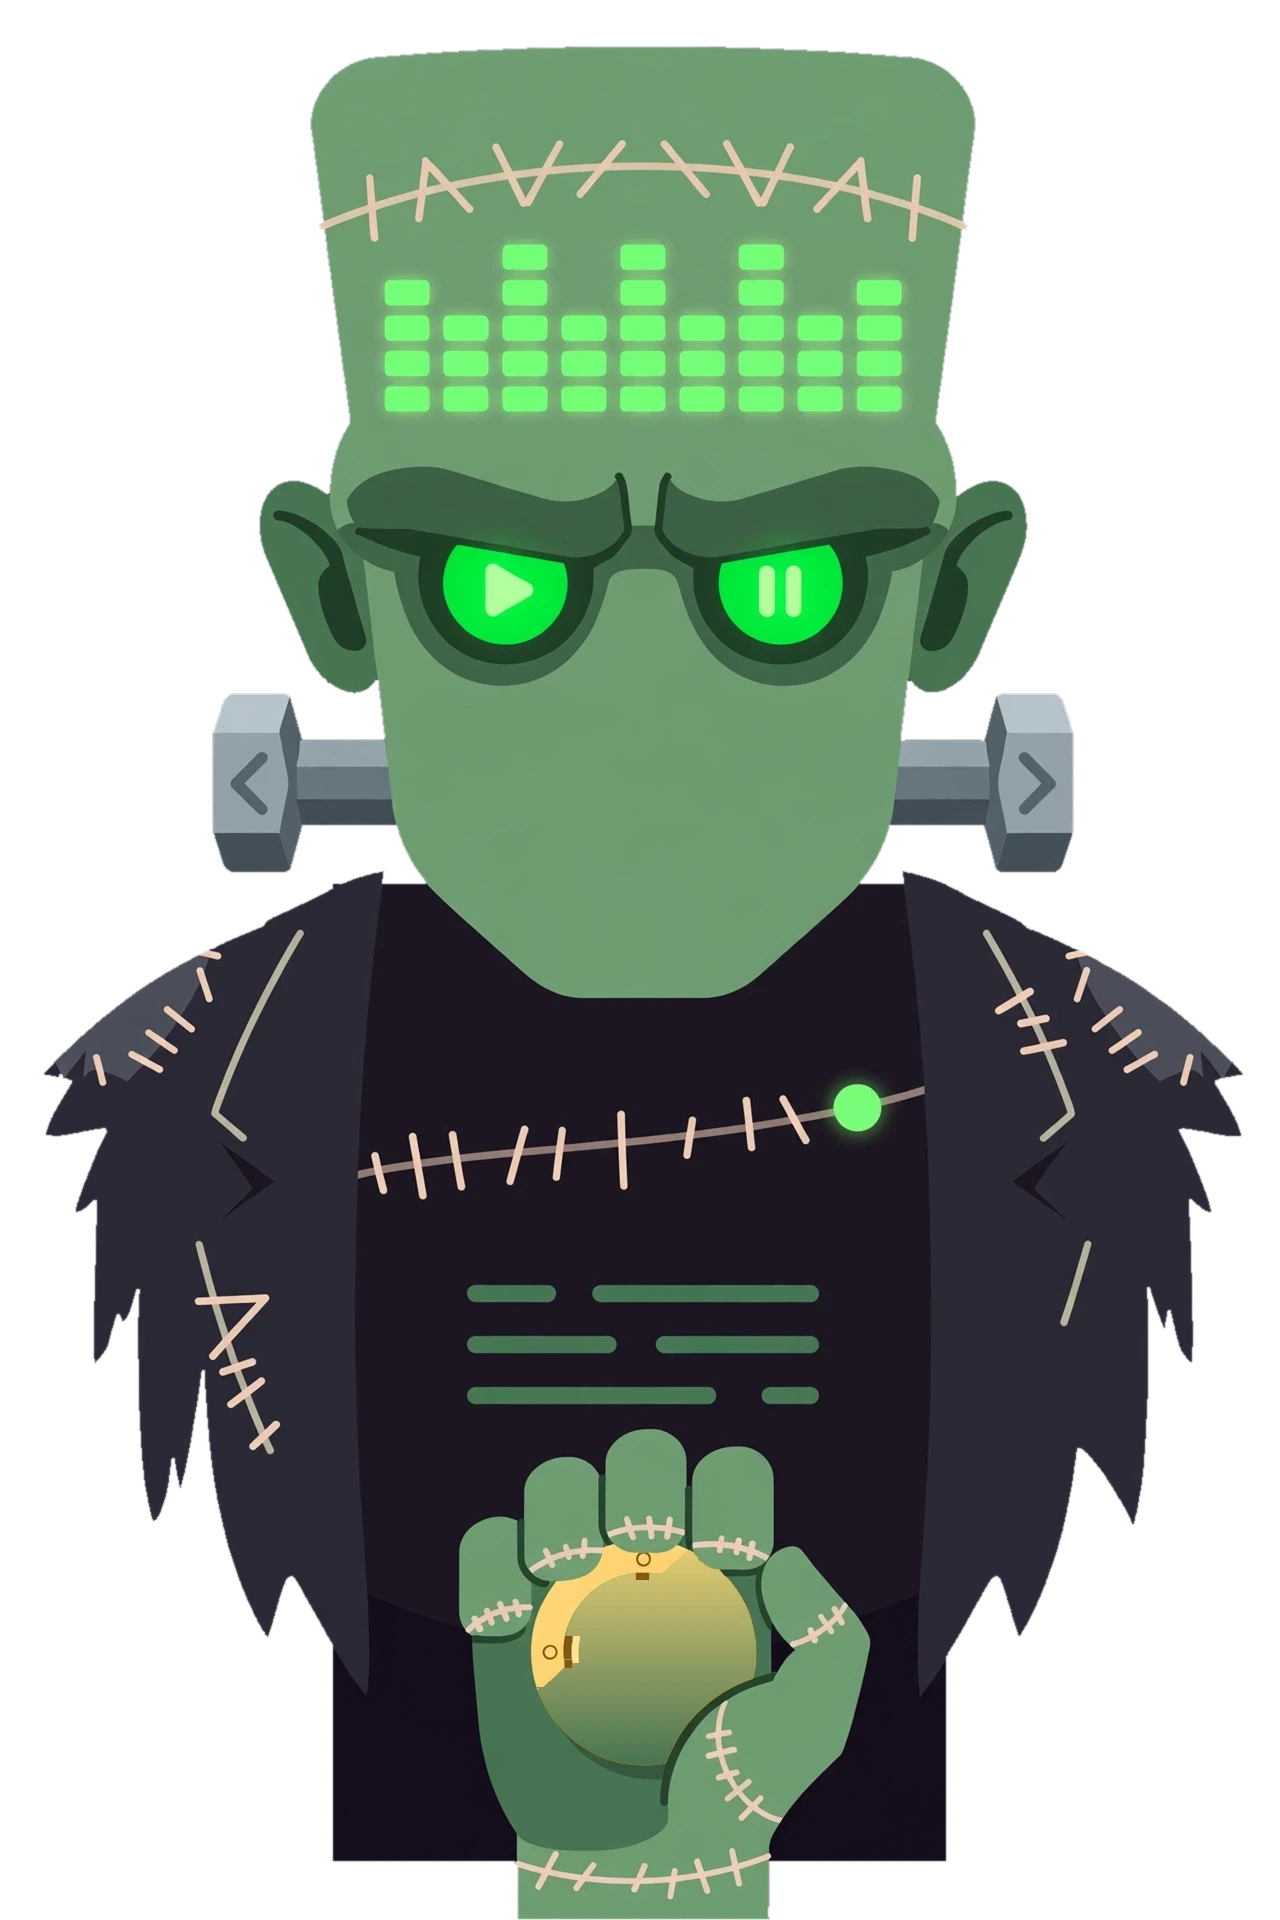
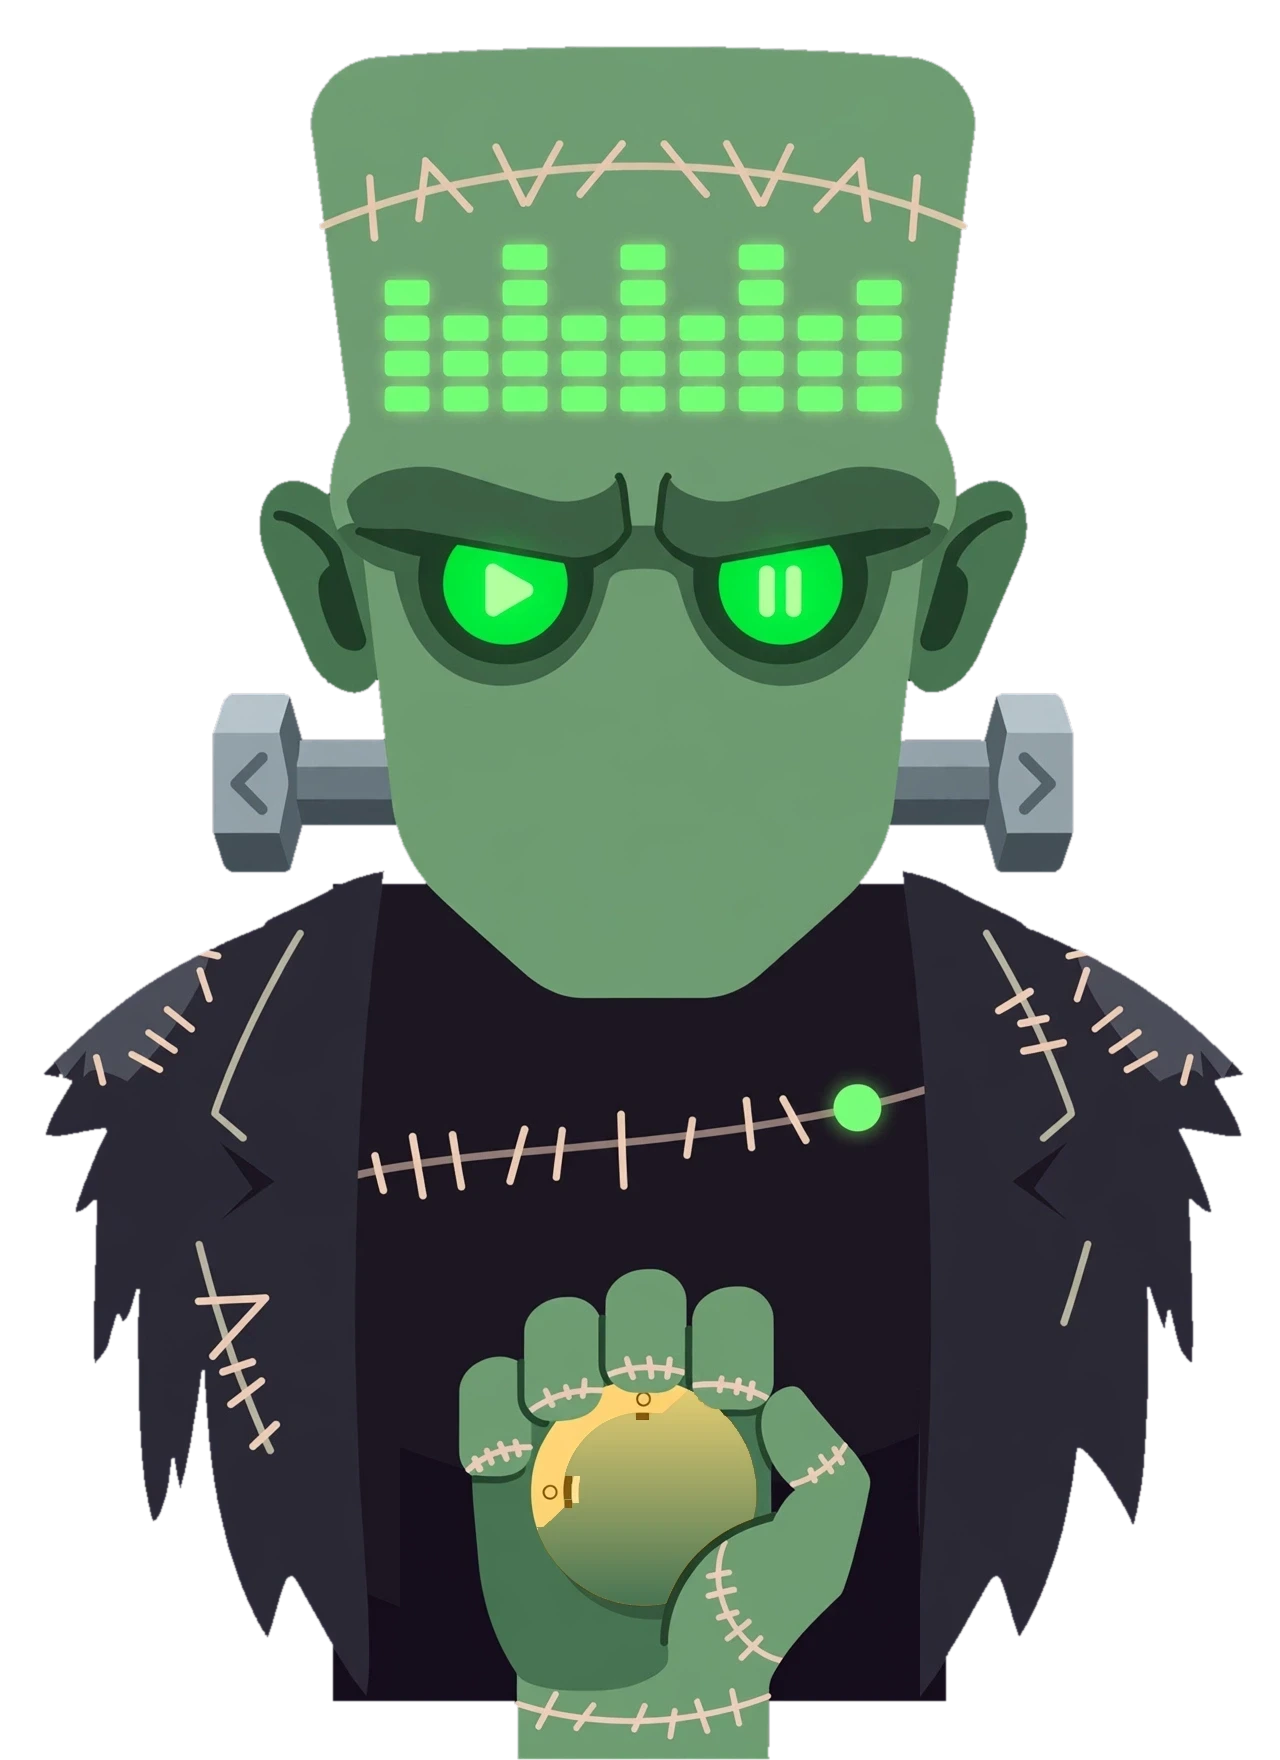
feat(skins): shorten Frankenstein stage and lift hand; crop plate to 1280×1760
- Crop frankenstein-frame.webp from 1280×1920 to 1280×1760; composite rows 1424–1920 to 160px higher with flat jacket join
- Restore art's below-hem band (wrist) at row 1700 to maintain hand visibility above window edge
- Remove .fr-chest-blank class (baked dummy chest label now hidden by crop)
- Rescale all Frankenstein CSS vertical percentages by 1920/1760 to preserve pixel positions after lift
- Update stage to 480×660 (mini 320×440); declare windowSize so mountSkin sizes window on mount
- Adjust watch position to track lifted hand (top 78.84%); update scar SVG viewBox to 1280×1760
- Update spec and audit docs with new dimensions and crop details
- Verified in Chromium at 480×660 with measurement-based validation; Electron window, shape and mini paths not exercised

diff --git a/src/renderer/style.css b/src/renderer/style.css
@@ -821,10 +821,11 @@ input[type="range"]::-moz-range-thumb {
    forehead is the equalizer, whose left eye follows the pointer and whose
    right eye is play/pause, with neck bolts, a stitched scar seek line, a
    gold watch for volume and brass jacket pins for the window tools.
-   Every position below is the reference build's own percentage of its 2:3
-   stage (1280×1920), and this skin's window is 2:3, so each live element
-   lands on its painted counterpart. cqw units keep the UI proportional as
-   the window resizes.
+   Every position below is the reference build's own percentage of its
+   1280×1760 stage (the plate is cropped from the reference's 2:3 art at the
+   chest, with the hand lifted to the new bottom edge), and this skin's window
+   matches that 8:11 stage, so each live element lands on its painted
+   counterpart. cqw units keep the UI proportional as the window resizes.
    ════════════════════════════════════════════════════════════════════ */
 .frankenstein-skin { filter: none; }
 .frankenstein-skin .fr-body {
@@ -852,9 +853,9 @@ input[type="range"]::-moz-range-thumb {
 .frankenstein-skin .fr-eq {
   position: absolute;
   left: 29.7%;
-  top: 12.6%;
+  top: 13.75%;
   width: 41%;
-  height: 9.1%;
+  height: 9.93%;
   background: #709b73;
   border-radius: 3%;
   z-index: 1;
@@ -865,9 +866,9 @@ input[type="range"]::-moz-range-thumb {
 .frankenstein-skin .fr-eye {
   position: absolute;
   left: 34.2%;
-  top: 28.1%;
+  top: 30.65%;
   width: 10.9%;
-  height: 5.7%;
+  height: 6.22%;
   background: radial-gradient(ellipse at 45% 38%, #edf0cf, #c9c99b 75%);
   border: 0.75cqw solid #284b31;
   border-radius: 46% 48% 48% 50%;
@@ -914,9 +915,9 @@ input[type="range"]::-moz-range-thumb {
 .frankenstein-skin .fr-play {
   position: absolute;
   left: 56.2%;
-  top: 28.2%;
+  top: 30.76%;
   width: 9.7%;
-  height: 5.5%;
+  height: 6%;
   padding: 0;
   display: grid;
   place-items: center;
@@ -964,9 +965,9 @@ input[type="range"]::-moz-range-thumb {
 .frankenstein-skin .fr-mouth {
   position: absolute;
   left: 28%;
-  top: 34.8%;
+  top: 37.96%;
   width: 44%;
-  height: 18.2%;
+  height: 19.85%;
   z-index: 6;
 }
 .frankenstein-skin .fr-mask-art {
@@ -1078,9 +1079,9 @@ input[type="range"]::-moz-range-thumb {
 /* ── Neck bolts = prev / next ─────────────────────────────────────────── */
 .frankenstein-skin .fr-bolt {
   position: absolute;
-  top: 36.1%;
+  top: 39.38%;
   width: 7%;
-  height: 9.3%;
+  height: 10.15%;
   padding: 0;
   background: transparent;
   border: none;
@@ -1094,20 +1095,6 @@ input[type="range"]::-moz-range-thumb {
 .frankenstein-skin .fr-bolt:focus-visible {
   box-shadow: 0 0 3cqw #72ff5a66;
   outline: 1px solid #b1ffa2;
-}
-
-/* ── Chest blank = hides the plate's baked placeholder label ──────────── */
-/* Same box the live title readout occupied: the art was drawn with a dummy
-   text block there, and the mouth monitor now carries the track name. */
-.frankenstein-skin .fr-chest-blank {
-  position: absolute;
-  left: 35.7%;
-  top: 65.6%;
-  width: 29%;
-  height: 8%;
-  background: #1c1724;
-  z-index: 3;
-  pointer-events: none;
 }
 
 /* ── Stitched scar = seek ─────────────────────────────────────────────── */
@@ -1148,9 +1135,9 @@ input[type="range"]::-moz-range-thumb {
 .frankenstein-skin .fr-seek {
   position: absolute;
   left: 28%;
-  top: 57%;
+  top: 62.18%;
   width: 44%;
-  height: 5%;
+  height: 5.45%;
   margin: 0;
   opacity: 0;
   pointer-events: none;
@@ -1158,7 +1145,7 @@ input[type="range"]::-moz-range-thumb {
 .frankenstein-skin .fr-times {
   position: absolute;
   left: 28%;
-  top: 62.3%;
+  top: 67.96%;
   width: 44%;
   display: flex;
   justify-content: space-between;
@@ -1174,9 +1161,9 @@ input[type="range"]::-moz-range-thumb {
 .frankenstein-skin .fr-watch {
   position: absolute;
   left: 41.5%;
-  top: 80.6%;
+  top: 78.84%;
   width: 18%;
-  height: 12%;
+  height: 13.09%;
   z-index: 4;
 }
 .frankenstein-skin .fr-dial {
@@ -1302,11 +1289,11 @@ input[type="range"]::-moz-range-thumb {
 /* Minimize takes the left jacket pin and open folder the right one (swapped
    on the maintainer's call, 2026-11-24); close, mini and next skin keep their
    places. */
-.frankenstein-skin .fr-pin-minimize { left: 18%; top: 53%; }
-.frankenstein-skin .fr-pin-close  { left: 16%; top: 67%; }
-.frankenstein-skin .fr-pin-folder { left: 79%; top: 53%; }
-.frankenstein-skin .fr-pin-mini   { left: 77%; top: 65%; }
-.frankenstein-skin .fr-pin-skin   { left: 74%; top: 76%; }
+.frankenstein-skin .fr-pin-minimize { left: 18%; top: 57.82%; }
+.frankenstein-skin .fr-pin-close  { left: 16%; top: 73.09%; }
+.frankenstein-skin .fr-pin-folder { left: 79%; top: 57.82%; }
+.frankenstein-skin .fr-pin-mini   { left: 77%; top: 70.91%; }
+.frankenstein-skin .fr-pin-skin   { left: 74%; top: 82.91%; }
 
 /* ════════════════════════════════════════════════════════════════════════
    SKELETON — WEB PLATE (2026-11-11)

diff --git a/src/renderer/skins/FrankensteinSkin.ts b/src/renderer/skins/FrankensteinSkin.ts
@@ -11,8 +11,11 @@
  * of the list — its rows are the playlist's keyboard path too.
  *
  * Anatomy → control / readout. Every position in style.css is the reference
- * build's own percentage of its 2:3 stage, and this skin's window is 2:3, so
- * each live element lands on its painted counterpart:
+ * build's own percentage of its 1280×1760 stage, and this skin's window is
+ * that same 8:11 shape, so each live element lands on its painted
+ * counterpart. The plate is cut 160px short of the reference's 2:3 art at the
+ * chest, and the hand with the watch is lifted to the new bottom edge, so the
+ * player is shorter than the reference without losing the fist:
  *   Forehead EQ ────── visualizer: 9 × 5 blocks, lit from the bottom
  *   Left eye ───────── readout: the iris follows the pointer, blinks, drifts
  *   Right eye ──────── play / pause (the glow holds while playing)
@@ -33,10 +36,10 @@ import { formatTime as fmt, durationLabel, probeDurations } from '../trackDurati
 import type { Skin } from './Skin'
 import type { Player } from '../player/Player'
 
-/** The reference build's 2:3 stage — this skin's window matches it exactly. */
-const STAGE_SIZE = { width: 480, height: 720, minWidth: 380, minHeight: 560 }
+/** 1280×1760 at 0.375 — the plate's own proportions, cropped at the chest. */
+const STAGE_SIZE = { width: 480, height: 660, minWidth: 380, minHeight: 520 }
 /** Mini keeps the whole figure, as the reference does — just smaller. */
-const MINI_SIZE = { width: 320, height: 480, minWidth: 240, minHeight: 360 }
+const MINI_SIZE = { width: 320, height: 440, minWidth: 240, minHeight: 330 }
 
 /** Forehead equalizer: the reference build's 9 × 5 block grid. */
 const EQ_COLS = 9
@@ -48,7 +51,7 @@ const EQ_BLOCK_H = 22
 /** What the blocks show while paused, column by column. */
 const EQ_IDLE = [4, 3, 5, 3, 5, 3, 5, 3, 4]
 
-/** Stitched scar, in the plate's own 1280×1920 coordinates. */
+/** Stitched scar, in the plate's own 1280×1760 coordinates. */
 const SCAR_PATH = 'M358 1174 C540 1134 751 1139 924 1090'
 
 /** Horizontal pixels for the full 0–100 volume range. One window-width
@@ -127,8 +130,8 @@ function sutureTicks(
  * HTML element placed exactly in it.
  *
  * Drawn in the mask's own 420×260 box, which is the same ratio as its CSS box
- * (44% of a 2:3 window), so preserveAspectRatio="none" costs no distortion
- * and the screen's percentages line up with the grille.
+ * (44% × 19.85% of the 480×660 stage), so preserveAspectRatio="none" costs no
+ * distortion and the screen's percentages line up with the grille.
  */
 function mouthMaskSvg(): string {
   return /* html */ `
@@ -222,6 +225,7 @@ export class FrankensteinSkin implements Skin {
   readonly id = 'frankenstein'
   readonly label = 'Frankenstein'
   readonly shapeImage = framePlate
+  readonly windowSize = { width: 480, height: 660 }
 
   private container: HTMLElement | null = null
   private player: Player | null = null
@@ -334,15 +338,9 @@ export class FrankensteinSkin implements Skin {
         <button class="fr-bolt fr-next" type="button" aria-label="Next track"
                 title="Next track"></button>
 
-        <!-- The plate has a baked dummy label on the chest (placeholder text
-             lines). The live title readout that used to cover it is gone —
-             the mouth monitor carries the track — so this blank plate keeps
-             the baked text off the screen. -->
-        <div class="fr-chest-blank" aria-hidden="true"></div>
-
         <!-- Stitched scar = seek -->
         <div class="fr-scar">
-          <svg class="fr-scar-svg" viewBox="0 0 1280 1920" aria-hidden="true">
+          <svg class="fr-scar-svg" viewBox="0 0 1280 1760" aria-hidden="true">
             <path class="fr-scar-route" d="${SCAR_PATH}"/>
             <path class="fr-scar-progress" d="${SCAR_PATH}" pathLength="1000"/>
             <circle class="fr-scar-thumb" r="15"/>

diff --git a/docs/AGENTS.md b/docs/AGENTS.md
@@ -344,6 +344,7 @@ over the bat. Verified on the running renderer in paused / hover / playing-hover
 - **Generic title bar removed (2026-11-22, maintainer's call):** the shared minimize / maximize / close strip (`#titlebar`, `renderWindowControls()` in `src/renderer/main.ts`) flashed in the window corner whenever a drag lifted the OS shape. Hiding it during drags was tried three ways (hide on drag, a 4px drag threshold plus a delayed reveal, hide two frames before lifting the shape) and the maintainer chose to remove it instead. Maximize is gone with it. Window buttons now live only on each skin (`.kiro/specs/skin-required-controls.md`). The 4px drag threshold in `src/renderer/skinDrag.ts` stays, so a plain click never touches the window.
 - **Dev server on port 5500 (2026-11-22):** `npm run dev` failed with `listen EACCES ::1:5173`. Windows had reserved TCP 5106-5205 (`netsh interface ipv4 show excludedportrange protocol=tcp`), which covers Vite's default. `electron.vite.config.ts` pins `renderer.server.port` to 5500. Reserved ranges can move after a reboot or a WSL/Docker update; change the port if it happens again.
 - **Frankenstein playlist moved into the mouth mask (2026-11-24, commits `0e1b21b`, `0100a68`, `504b6b1`):** the blank mouth is now an MK-style riveted half mask (SVG in `src/renderer/skins/FrankensteinSkin.ts`) whose steel grille frames a phosphor-green playlist monitor (`.fr-mouth-list`). The separate tracks board behind the jacket pin was removed, so the monitor is the only copy of the list and its rows are focusable (`tabindex="0"`). The freed pin became minimize, which closed the last gap in `.kiro/specs/skin-required-controls.md`.
+- **Frankenstein stage shortened, hand lifted (2026-11-24, maintainer: "move up the hand to reduce the height of the player skin"):** the fist with the gold watch sat against the bottom of the 1280×1920 plate, so the player could not get shorter without cutting it. `frankenstein-frame.webp` is now 1280×1760: the bottom 160px are cropped and rows 1424–1920 are composited 160px higher (x 400–920 — flat jacket on every row that lands, so the join measured pixel-identical), and the art's below-hem band (rows 1860–1920, wrist only) is restored at 1700 — the jacket keeps its flat bottom edge 22px above the window and the wrist still runs past it, as in the 2:3 plate, instead of ending flush with the torso. That lift also covers the art's baked dummy chest label, so `.fr-chest-blank` is deleted. The stage is 480×660 (mini 320×440, `windowSize` now declared so `mountSkin` sizes the window on mount); every vertical percentage in the Frankenstein CSS block was rescaled by 1920/1760 to hold its previous pixel position, the watch moved with the hand (top 78.84%), and the scar SVG's viewBox is 1280×1760. Verified in Chromium at 480×660: body 480×660, mask 211.2×131, screen 64.5 tall with five 10.5px rows, watch at 199.2/520.3 on the lifted ball, pins on their old pixels. The Electron window, shape and mini paths were not exercised, and the preview's saved screenshot came back as a pre-resize frame, so this check is measurement-based.
 ## Recent Improvements (2026-11-08)
 
 - **Frankenstein rebuilt on its reference web build (2026-11-23):** the plate, the dial crop and every live position now come from the reference build's own 1280×1920 art and DOM percentages — a forehead 9×5 block equalizer, a left eye whose iris follows the pointer (idle drift after 4.5 s, 8 s blink), the right eye as play/pause, neck bolts, a stitched scar seek drawn on the reference's SVG path (painted while dragging, committed on release, so the buffer no longer restarts per pixel), a gold watch dial with tap/ϟ mute, and five brass jacket pins (folder, close, ☰ Tracks, mini, next skin). The ☰ Tracks board lifts the OS window region while open (`liftShape()` / `restoreShape()` in `src/renderer/windowShape.ts`), because a panel wider than the silhouette would otherwise be clipped by the window shape; `src/renderer/skinDrag.ts` ignores pointerdowns while a dialog is open. `role="img"` on the body became `role="group"` — the old role had hidden every control from assistive tech. The plate already carried a real alpha channel (59.3% coverage, 0 enclosed transparent pockets), so nothing was flood-filled, and the old separated eye/dial layers were deleted. Verified by rendering the skin's own CSS over the plate at 480×720 in Chromium and measuring each control against the reference percentages (all within 0.1%); the Electron window, audio, shape and mini paths were not exercised.

diff --git a/.kiro/specs/skin-required-controls.md b/.kiro/specs/skin-required-controls.md
@@ -81,4 +81,4 @@ T0b decision (2026-11-21): the maintainer asked to remove the generic title bar 
 
 T4 (2026-11-22): used the Boba web build the skin came from as the design reference. The five window tools sit on the skeleton's painted icon row, left to right: skull → mini, half-mask → change skin, coffin → add files, bar → minimize, X → close; the painted speaker beside the volume bar mutes and restores the level. The mini version follows the web build's mini player: the window shrinks to 380×220, the shape is lifted, and the card shows a skull crop, title, play/pause, seek and restore/close. The generic "+ Add files" pill is now hidden on Skeleton as well (R5). `npm run typecheck` and `npm run build` pass; not checked visually in the running app. [MAINTAINER: exercise all five tools, the mini card and its restore/seek, and the shape after entering and leaving mini.]
 
-T3 + T5 (2026-11-23): Frankenstein rebuilt on its reference web build, the same treatment Dracula and Skeleton had. The plate, the dial crop and every live position come from that build: forehead 9×5 block equalizer, a cursor-tracking left eye with idle drift and an 8 s blink, the right eye as play/pause, neck bolts, a stitched scar seek drawn on the reference's SVG path (painted while dragging, committed on release), a gold watch dial with mute, and the five brass jacket pins. Mini is a 320×480 window of the same figure. The ☰ Tracks board lifts the OS window region while open (`liftShape()` / `restoreShape()` in `src/renderer/windowShape.ts`) so the panel is not clipped by the silhouette, and `src/renderer/skinDrag.ts` ignores pointerdowns while a dialog is open. `role="img"` on the body became `role="group"`; the old role had hidden every control from assistive tech. The floating "+ Add files" pill is now hidden on Frankenstein too (T5), so all three skins carry their own controls. Verified by rendering the skin's own CSS over the plate at 480×720 in Chromium and measuring every control against the reference percentages (all within 0.1%); `npm run typecheck` and `npm run build` pass. The Electron window, audio, shape and mini paths were not exercised.
+T3 + T5 (2026-11-23): Frankenstein rebuilt on its reference web build, the same treatment Dracula and Skeleton had. The plate, the dial crop and every live position come from that build: forehead 9×5 block equalizer, a cursor-tracking left eye with idle drift and an 8 s blink, the right eye as play/pause, neck bolts, a stitched scar seek drawn on the reference's SVG path (painted while dragging, committed on release), a gold watch dial with mute, and the five brass jacket pins. Mini is a 320×440 window of the same figure (the plate was cropped to 1280×1760 on 2026-11-24). The ☰ Tracks board lifts the OS window region while open (`liftShape()` / `restoreShape()` in `src/renderer/windowShape.ts`) so the panel is not clipped by the silhouette, and `src/renderer/skinDrag.ts` ignores pointerdowns while a dialog is open. `role="img"` on the body became `role="group"`; the old role had hidden every control from assistive tech. The floating "+ Add files" pill is now hidden on Frankenstein too (T5), so all three skins carry their own controls. Verified by rendering the skin's own CSS over the plate at 480×720 in Chromium and measuring every control against the reference percentages (all within 0.1%); `npm run typecheck` and `npm run build` pass. The Electron window, audio, shape and mini paths were not exercised.
